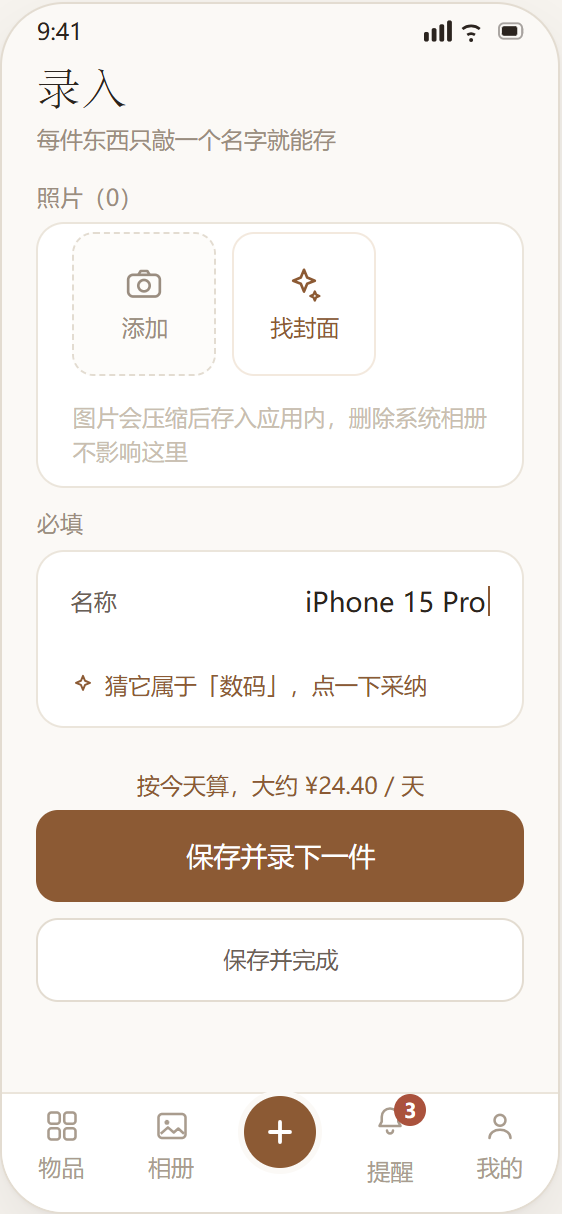
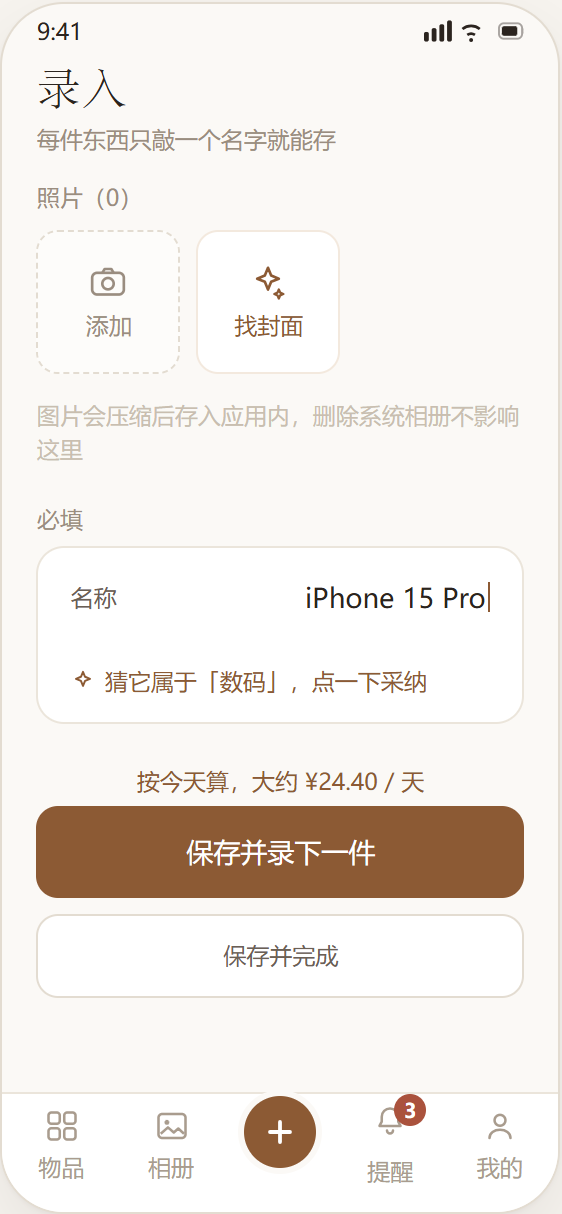
修录入页等三处卡片缺左右留白
现象：录入页两侧没有留白，卡片（必填 / 归类 / 时间与花费 / 更多信息）
顶到屏幕两边。

根因：SectionCard 只给「标题」加左右边距，内容区是裸露的 ——
卡片要不要内缩全看调用方，**漏了不报错**。全工程 14 处 SectionCard
里有两种写法（外层 <Gutter> 包 Card，或 Card 自带 marginHorizontal），
而六处卡片一处都没给。

修法：按已经存在的先例（详情页的 fieldCard）给缺边距的卡片补上
marginHorizontal: GUTTER，每处只给一次。
- ItemForm 四张卡      → cardGutter
- 新建柜子页的卡片      → formCard
- 详情页「备注」「照片」 → 复用已有的 fieldCard

没有改成「让 SectionCard 自己给内距」：那要同时清掉 4 个调用点里
冗余的 Gutter，会牵出约 200 行缩进改动，且改的是共用组件的契约。
这个坑已经犯过三次（1.2.1 修过「我的」页），值得单独一轮带截图核对，
不塞进这个 bug fix。

设计稿：03 屏照片区外面那层白色卡片实现里并不存在（上一版设计稿也没有，
是上一轮重画时误加的），去掉卡片样式，方块直接落在页面底上；
实测方块左边缘与卡片左边框都在 17px，两边的留白口径一致了。

diff --git a/docs/screens.html b/docs/screens.html
@@ -307,8 +307,10 @@ footer{margin-top:80px;padding-top:28px;border-top:1px solid var(--line);font-fa
         </div>
         <div style="margin:11px 17px 0;flex:0 0 auto">
           <div style="color:#9A8D80;margin-bottom:4px">照片（0）</div>
-          <div style="background:#fff;border:0.5px solid #EBE5DB;border-radius:14px;overflow:hidden">
-            <div style="display:flex;gap:8px;padding:4px 17px">
+          <!-- 这一组没有卡片外壳 —— 实现里就是两个 72px 描边方块直接落在页面底上，
+               卡片会变成两层边框嵌套。方块自身有边，足够成形 -->
+          <div>
+            <div style="display:flex;gap:8px;padding:4px 0">
               <div style="width:72px;height:72px;border-radius:11px;border:0.5px dashed #E3DCD1;background:#FDFCFA;display:flex;flex-direction:column;align-items:center;justify-content:center;gap:3px;flex:0 0 auto">
                 <svg width="20" height="20" viewBox="0 0 24 24" fill="none"><rect x="2.5" y="6.5" width="19" height="13" rx="3" stroke="#9A8D80" stroke-width="1.6"/><circle cx="12" cy="13" r="3.4" stroke="#9A8D80" stroke-width="1.6"/><path d="M8.6 6.5 10 4.2h4l1.4 2.3" stroke="#9A8D80" stroke-width="1.6" stroke-linejoin="round"/></svg>
                 <span style="color:#9A8D80">添加</span>
@@ -318,7 +320,7 @@ footer{margin-top:80px;padding-top:28px;border-top:1px solid var(--line);font-fa
                 <span style="color:#8C5A34">找封面</span>
               </div>
             </div>
-            <div style="color:#C9BEB0;margin-top:8px;padding:0 17px 9px">图片会压缩后存入应用内，删除系统相册不影响这里</div>
+            <div style="color:#C9BEB0;margin-top:8px;padding:0 0 9px">图片会压缩后存入应用内，删除系统相册不影响这里</div>
           </div>
         </div>
         <div style="margin:9px 17px 0;flex:0 0 auto">
@@ -352,7 +354,7 @@ footer{margin-top:80px;padding-top:28px;border-top:1px solid var(--line);font-fa
           <div class="tb"><svg width="18" height="18" viewBox="0 0 24 24" fill="none"><circle cx="12" cy="8.2" r="3.6" stroke="#A99C8E" stroke-width="1.7"/><path d="M5 20c0-3.5 3.2-5.5 7-5.5s7 2 7 5.5" stroke="#A99C8E" stroke-width="1.7" stroke-linecap="round"/></svg><span>我的</span></div>
         </div>
       </div></div>
-      <figcaption><div class="no">03</div><div class="nm">录入 &middot; 连续录入模式</div><div class="ds">两个按钮上下叠、主按钮在上且更大：「保存并录下一件」优先于「保存并完成」。推进感靠标题下那句回执（「刚记下「X」，继续下一件」），不靠进度条 —— 上一版稿里的「第 3 件」进度条和「最多 9 张」并不存在。照片给两个入口：「添加」走本地相册，「找封面」要联网，用品牌色描边把这两件事区分开。这屏画到按钮为止，中间还有「归类 / 时间与花费 / 更多信息」三组字段，只有名称必填。录入是 tab 路由，底部标签栏一直在；中央那颗 + 永远品牌色、永远不带文字，所以「当前在录入页」不会让标签栏有任何变化。</div></figcaption>
+      <figcaption><div class="no">03</div><div class="nm">录入 &middot; 连续录入模式</div><div class="ds">两个按钮上下叠、主按钮在上且更大：「保存并录下一件」优先于「保存并完成」。推进感靠标题下那句回执（「刚记下「X」，继续下一件」），不靠进度条 —— 上一版稿里的「第 3 件」进度条和「最多 9 张」并不存在。照片给两个入口：「添加」走本地相册，「找封面」要联网，用品牌色描边把这两件事区分开。照片这一组**没有卡片外壳**（方块自带描边，再套卡片就是两层边框）—— 卡片只给下面四组字段用，每张卡左右各留 17px，靠卡片自身的边距；这是页面上最容易漏的一处，漏了不报错、只是卡片顶到屏幕两边。这屏画到按钮为止，中间还有「归类 / 时间与花费 / 更多信息」三组字段，只有名称必填。录入是 tab 路由，底部标签栏一直在；中央那颗 + 永远品牌色、永远不带文字，所以「当前在录入页」不会让标签栏有任何变化。</div></figcaption>
     </figure>
 
     <!-- 04 -->

diff --git a/src/components/domain/ItemForm.tsx b/src/components/domain/ItemForm.tsx
@@ -425,7 +425,7 @@ export function ItemForm({
         </SectionCard>
 
         <SectionCard title="必填">
-          <Card padded={false}>
+          <Card padded={false} style={styles.cardGutter}>
             <Gutter>
               <FieldRow label="名称" required>
                 <TextInput
@@ -461,7 +461,7 @@ export function ItemForm({
         </SectionCard>
 
         <SectionCard title="归类">
-          <Card padded={false}>
+          <Card padded={false} style={styles.cardGutter}>
             <Gutter>
               <FieldRow label="分类">
                 <Pressable
@@ -488,7 +488,7 @@ export function ItemForm({
         </SectionCard>
 
         <SectionCard title="时间与花费">
-          <Card padded={false}>
+          <Card padded={false} style={styles.cardGutter}>
             <Gutter>
               <FieldRow label="购买日期">
                 <Pressable
@@ -552,7 +552,7 @@ export function ItemForm({
         </SectionCard>
 
         <SectionCard title="更多信息（选填）">
-          <Card padded={false}>
+          <Card padded={false} style={styles.cardGutter}>
             <Gutter>
               <FieldRow label="品牌">
                 <TextInput
@@ -730,6 +730,15 @@ const useStyles = makeStyles((Palette) => ({
   flex: { flex: 1 },
   scroll: { paddingBottom: Space.xxxl * 2 },
   heading: { paddingHorizontal: GUTTER, paddingTop: Space.sm, paddingBottom: Space.xs },
+
+  /* ★ 卡片必须自己扛左右边距（v1.3.0 修：以前四张卡都漏了，整页顶到屏幕两边）。
+     SectionCard 只给「标题」加左右边距，内容区是裸露的 —— 卡片要不要内缩
+     全看调用方，**漏了不报错**。
+     这里用 marginHorizontal 而不是在外面再包一层 <Gutter>：卡片内部已经有一层
+     <Gutter> 给字段行做左右内距（fieldRow 只设了 paddingVertical），
+     若改包外层 Gutter，就得把内层那层挪走，字段行会立刻贴住卡片边缘。
+     同一种做法见详情页的 fieldCard（也是 marginHorizontal: GUTTER）。 */
+  cardGutter: { marginHorizontal: GUTTER },
 
   photoStrip: { gap: Space.sm, paddingHorizontal: GUTTER, paddingVertical: Space.xs },
   photoAdd: {

diff --git a/src/app/cabinet/new.tsx b/src/app/cabinet/new.tsx
@@ -107,7 +107,8 @@ export default function NewCabinetScreen() {
           keyboardShouldPersistTaps="handled"
           showsVerticalScrollIndicator={false}>
           <SectionCard title="新建柜子">
-            <Card padded={false}>
+            {/* 卡片自己扛左右边距：SectionCard 只给标题加边距，内容区裸露 */}
+            <Card padded={false} style={styles.formCard}>
               <Gutter>
                 <View style={styles.fieldRow}>
                   <Body style={styles.fieldLabel}>名称</Body>
@@ -283,6 +284,7 @@ const useStyles = makeStyles((Palette) => ({
     backgroundColor: Palette.inset,
   },
   saveAction: { marginTop: Space.lg },
+  formCard: { marginHorizontal: GUTTER },
   list: { paddingHorizontal: GUTTER, gap: Space.md },
   cabinetCard: { padding: Space.lg },
   cabinetHead: { flexDirection: 'row', alignItems: 'center', gap: Space.sm },

diff --git a/src/app/item/[id]/index.tsx b/src/app/item/[id]/index.tsx
@@ -212,13 +212,13 @@ export default function ItemDetailScreen() {
         </SectionCard>
 
         <SectionCard title="备注">
-          <Card>
+          <Card style={styles.fieldCard}>
             <Body tone={item.note ? 'ink' : 'ink3'}>{item.note?.trim() || '未设置'}</Body>
           </Card>
         </SectionCard>
 
         <SectionCard title="照片">
-          <Card>
+          <Card style={styles.fieldCard}>
             <Body tone={photos.length > 0 ? 'ink' : 'ink3'}>
               {photos.length > 0 ? `${photos.length} 张，已存入 App 沙盒` : '未设置'}
             </Body>
